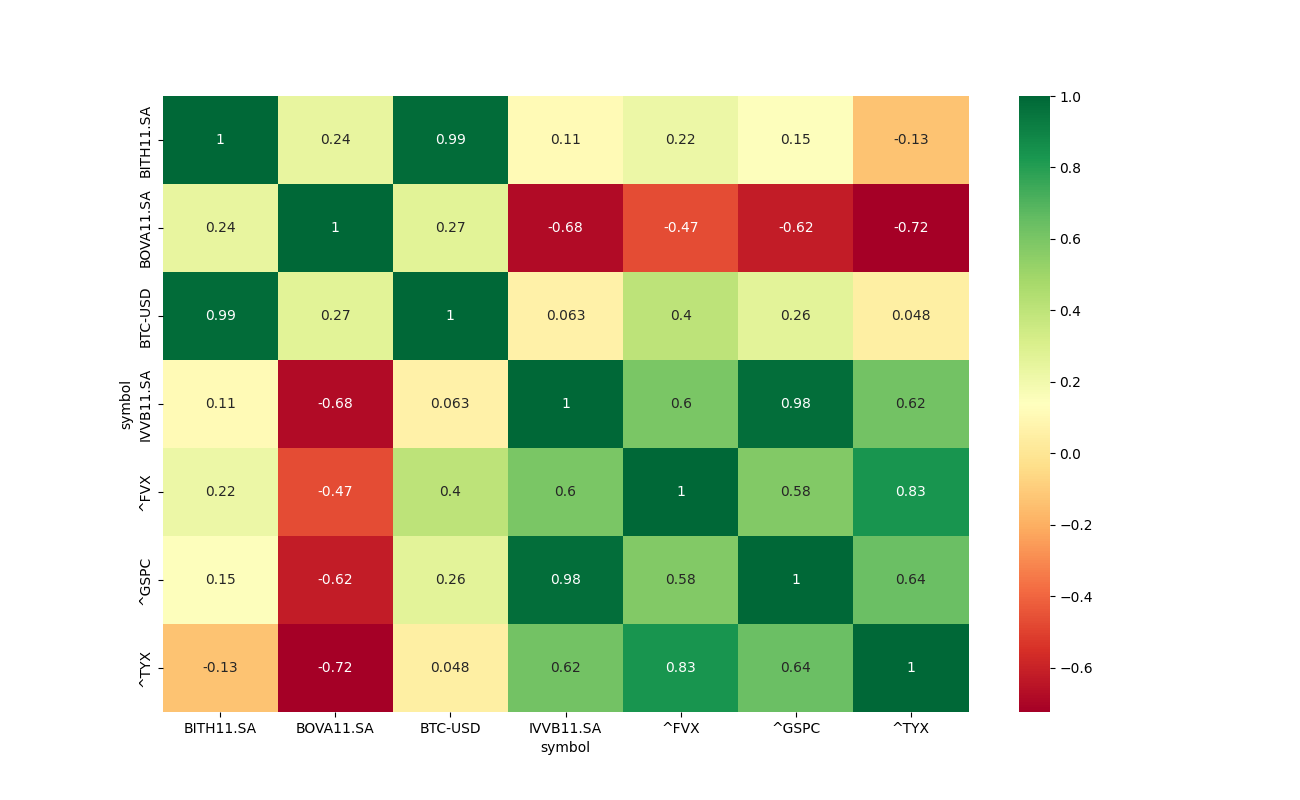
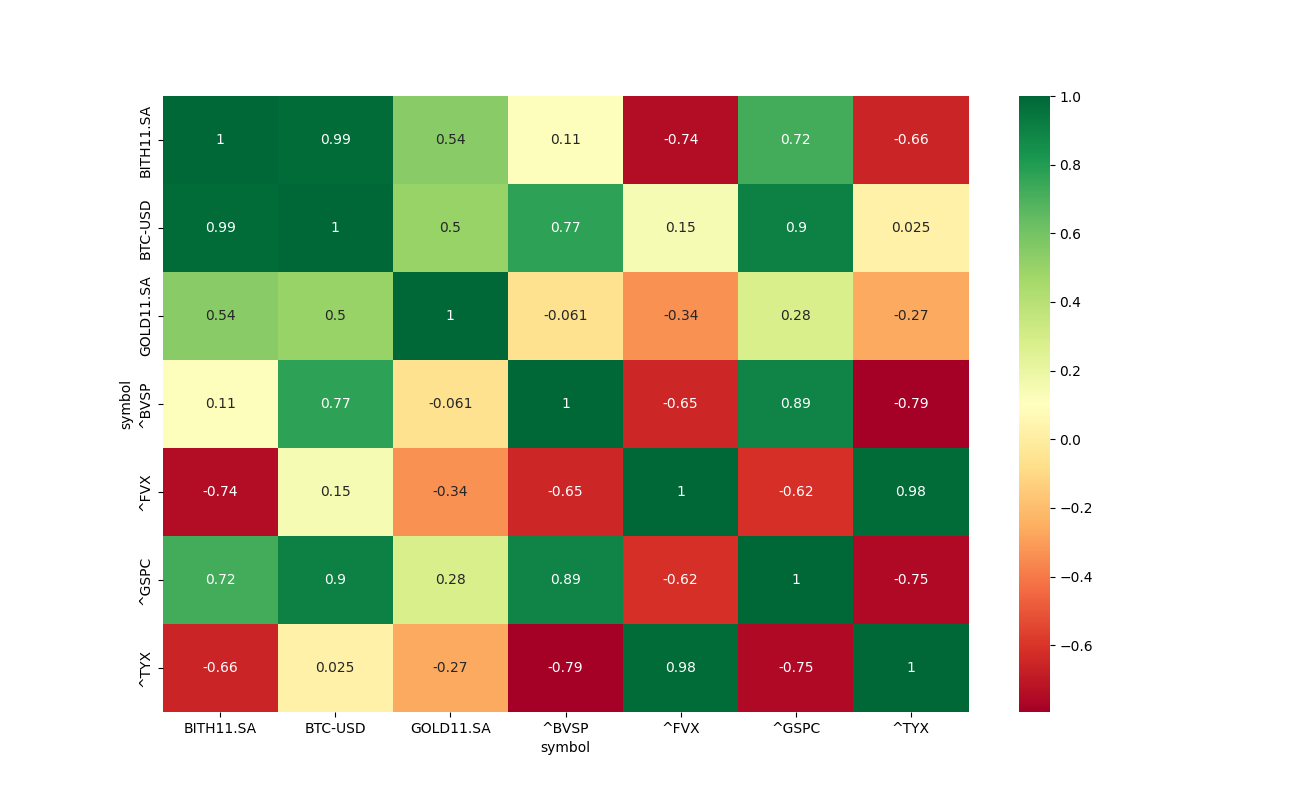
Added GOLD index to correlation example.

diff --git a/examples/assets-correlation.py b/examples/assets-correlation.py
@@ -6,20 +6,20 @@ import seaborn
 from yahooquery import Ticker
 
 symbols_list = [
-    "IVVB11.SA",
-    "BITH11.SA",
-    "BOVA11.SA",
+    "^BVSP", # IBOVESPA
     "^GSPC", # S&P 500
     "^FVX", # Treasury Yield 5 Years
     "^TYX", # Treasury Yield 30 Years
     "BTC-USD",
+    "BITH11.SA",
+    "GOLD11.SA",
 ]
 
 tickers = Ticker(" ".join(symbols_list))
-df = tickers.history()
+df = tickers.history(period='max')
 df = df.reset_index()
-df = df[['date', 'close', 'symbol']]
-df_pivot=df.pivot(index='date', columns='symbol', values='close').reset_index(drop=True)
+df = df[['date', 'adjclose', 'symbol']]
+df_pivot=df.pivot(index='date', columns='symbol', values='adjclose').reset_index(drop=True)
 
 corr_df = df_pivot.corr(method='pearson')
 
